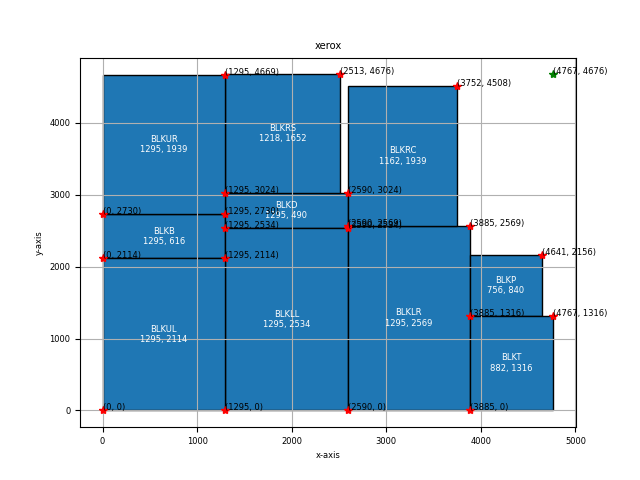
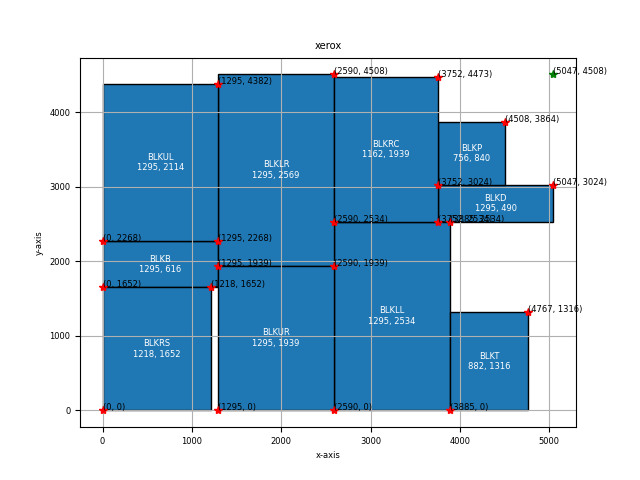
2022-04-08 ami49 almost pass

diff --git a/src/sp.cpp b/src/sp.cpp
@@ -22,6 +22,22 @@ SequencePair::~SequencePair() {
 }
 
 /* -------------------- solver -------------------- */
+double SequencePair::Cost(int w, int h) {
+    if (has_legal_ == false) {
+        int delta_w = (w - W_);
+        int delta_h = (h - H_);
+        int max_w = (max_width_ - W_);
+        int max_h = (max_height_ - H_);
+        if (delta_w > 0)
+            return delta_w - max_w;
+        if (delta_h > 0)
+            return delta_h - max_h;
+        return -9999999;
+    } else {
+        return w * h - max_width_ * max_height_;
+    }
+}
+
 void SequencePair::Solve() {
     this->RandomInitialize();
     DEBUG_MSG("RandomInitialize() finished...");
@@ -69,7 +85,6 @@ void SequencePair::Solve() {
             int w = this->EvaluateSequence(0);
             int h = this->EvaluateSequence(1);
 
-            
             if (has_legal_ == false) {
                 if (w <= W_ && h <= H_) {
                     has_legal_ = true;
@@ -83,7 +98,8 @@ void SequencePair::Solve() {
             }
                         
             bool flag = false;
-            delta = w * h - max_width_ * max_height_;
+//            delta = w * h - max_width_ * max_height_;
+            delta = this->Cost(w, h);
 
             // downhile move
             if (delta <= 0) {
@@ -129,7 +145,7 @@ void SequencePair::Solve() {
         max_width_ = this->EvaluateSequence(0);
         max_height_ = this->EvaluateSequence(1);
         if (cnt % 1000 == 0) {
-            cout << cnt << "Temparature = " << temparature
+            cout << has_legal_ << ") Temparature = " << temparature
                  << ", probability = " << exp(-delta / temparature) << ":\t"
                  << "( " << max_width_ << " , " << max_height_ << " )"
                  << "\tarea = " << max_width_ * max_height_ << endl;
@@ -187,18 +203,21 @@ void SequencePair::RandomInitialize() {
         w = this->EvaluateSequence(0);
         h = this->EvaluateSequence(1);
         norm_area_ += w * h;
+        bool force_flag = false;
         if (has_legal_ == false) {
             if (w <= W_ && h <= H_) {
                 has_legal_ = true;
+                force_flag = true;
             } else if (h <= W_ && w <= H_) {
-                has_legal_ = true;
                 this->Rotate90();
                 int temp = w;
                 w = h;
                 h = temp;
+                has_legal_ = true;
+                force_flag = true;
             }       
         }
-        if (w * h < max_width_ * max_height_) {
+        if (w * h < max_width_ * max_height_ ||force_flag) {
             if (has_legal_ && (w > W_ || h > H_))
                 continue;
             max_width_ = w;

diff --git a/src/plot.py b/src/plot.py
@@ -85,6 +85,8 @@ if __name__ == '__main__':
     directory = 'output_pa2'
     for filename in os.listdir(directory):
         f = os.path.join(directory, filename)
+        if filename[0] == '.':
+            continue
         if os.path.isfile(f):
             print("now: " + f)
             read_rpt(f)
